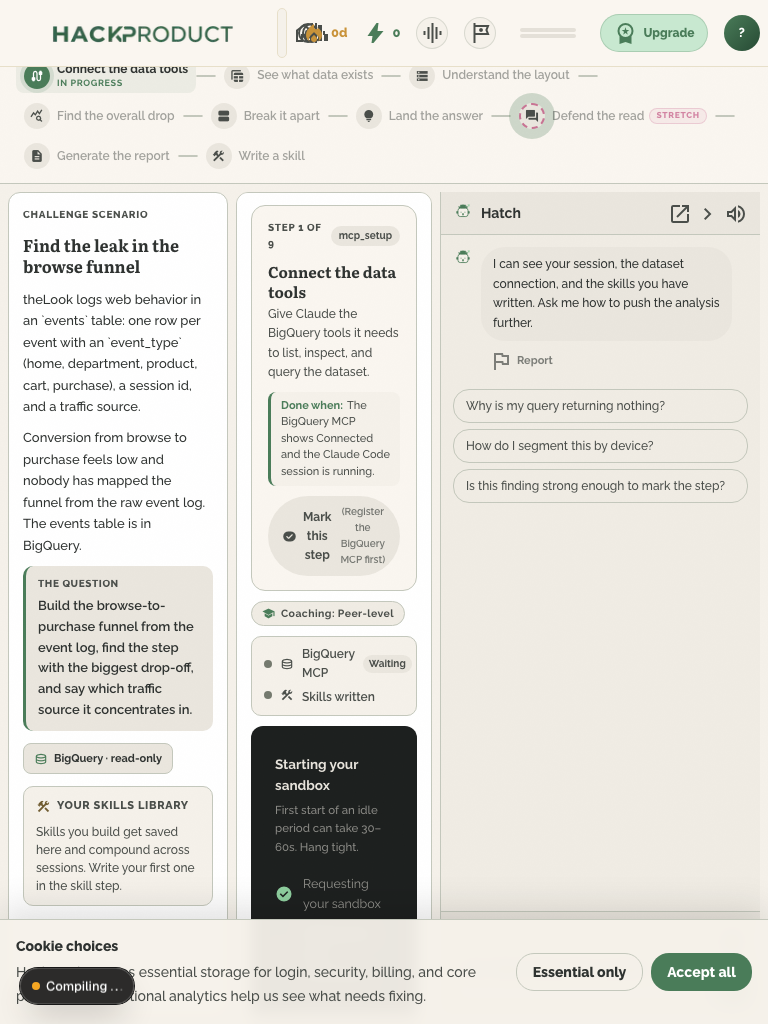
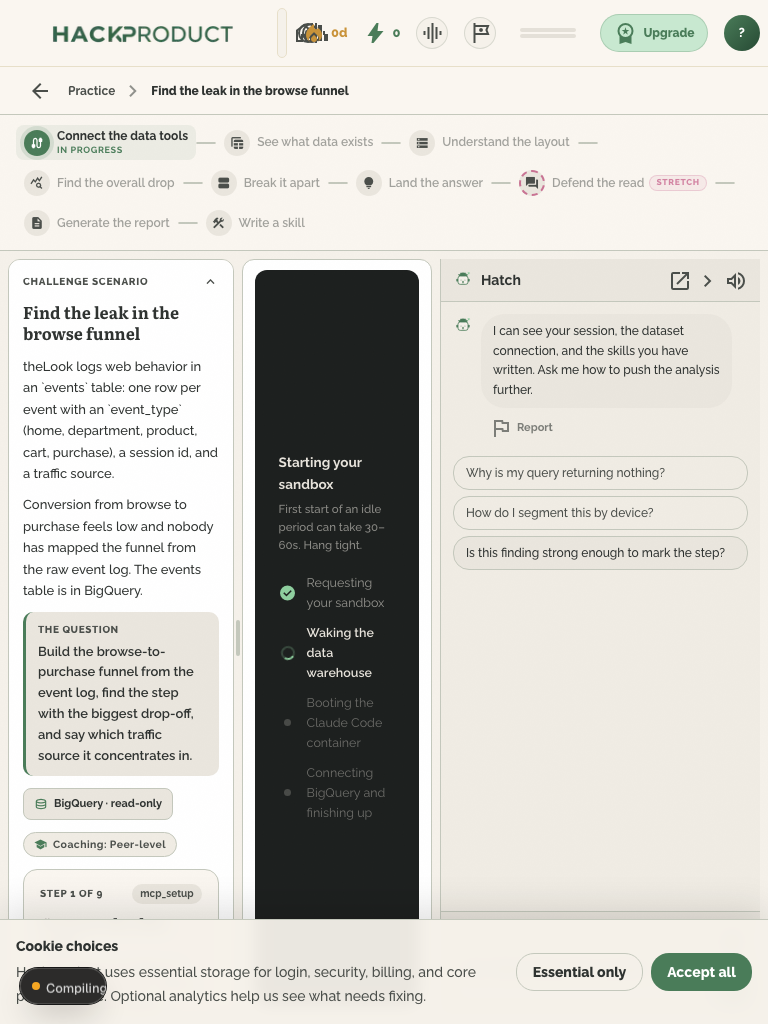
feat(cc-analytics): terminal-as-hero layout with resizable mission column
Ported from the cc-analytics-hero worktree: the left column becomes the
resizable 'Mission' pane (20-50%, drag divider, per-challenge localStorage)
owning ALL guidance in one scroll — collapsible scenario prose (auto-
collapses once the session is live), question card, dataset badge, register
chip, objective card, prompt rail (guidance density preserved), connection
strip, usage meter, skills library. The right pane is the terminal alone:
no siblings compete for its height and xterm is the only scrollbar. Mobile
stacks into a single scrolling column with a 360px terminal floor.

CC Analytics elevation, increment 3. Real-session E2E green; suite green.

diff --git a/src/components/v2/mediums/ClaudeCodeAnalyticsMedium.tsx b/src/components/v2/mediums/ClaudeCodeAnalyticsMedium.tsx
@@ -87,6 +87,54 @@ export function ClaudeCodeAnalyticsMedium({ challenge, attemptId, scenario }: Me
     injected: Array<{ id: string; kind: string; afterStepId: string | null; reason: string }>
     adjustments: Array<{ from: string; to: string; trigger: string; atStepId: string | null }>
   }>({ injected: [], adjustments: [] })
+
+  // ── Terminal-as-hero frame: resizable split (ported from cc-analytics-hero).
+  // The left "Mission" column owns all guidance and the single scroll; the
+  // right pane is the terminal only. Same clamps + storage pattern as
+  // FlowWorkspace so the lab reads like the coding workspace.
+  const containerRef = useRef<HTMLDivElement>(null)
+  const dragCleanupRef = useRef<null | (() => void)>(null)
+  const [leftWidth, setLeftWidth] = useState(30) // percent, md and up only
+  const [questionCollapsed, setQuestionCollapsed] = useState(false)
+  const questionTouchedRef = useRef(false)
+
+  useEffect(() => {
+    try {
+      const stored = localStorage.getItem(`cc-analytics-layout:${challenge.id}`)
+      if (stored) {
+        const parsed = JSON.parse(stored) as { leftWidth?: number }
+        if (typeof parsed.leftWidth === 'number') setLeftWidth(Math.max(20, Math.min(50, parsed.leftWidth)))
+      }
+    } catch { /* no storage */ }
+  }, [challenge.id])
+  useEffect(() => {
+    try {
+      localStorage.setItem(`cc-analytics-layout:${challenge.id}`, JSON.stringify({ leftWidth }))
+    } catch { /* no storage */ }
+  }, [challenge.id, leftWidth])
+
+
+  const handleLeftDividerMouseDown = useCallback((e: React.MouseEvent) => {
+    e.preventDefault()
+    const container = containerRef.current
+    if (!container) return
+    const onMouseMove = (ev: MouseEvent) => {
+      const rect = container.getBoundingClientRect()
+      const pct = ((ev.clientX - rect.left) / rect.width) * 100
+      setLeftWidth(Math.max(20, Math.min(50, pct)))
+    }
+    const onMouseUp = () => {
+      document.removeEventListener('mousemove', onMouseMove)
+      document.removeEventListener('mouseup', onMouseUp)
+      document.body.style.cursor = ''
+      dragCleanupRef.current = null
+    }
+    document.body.style.cursor = 'col-resize'
+    document.addEventListener('mousemove', onMouseMove)
+    document.addEventListener('mouseup', onMouseUp)
+    dragCleanupRef.current = onMouseUp
+  }, [])
+  useEffect(() => () => { dragCleanupRef.current?.() }, [])
   const [sessionId, setSessionId] = useState<string | null>(null)
   const [sessionError, setSessionError] = useState<string | null>(null)
   // Free quota exhausted (HTTP 402). Opens the unified PaywallModal (analytics
@@ -107,6 +155,14 @@ export function ClaudeCodeAnalyticsMedium({ challenge, attemptId, scenario }: Me
   // True once the `claude` REPL has launched (its banner/prompt appeared). Step 1
   // gates on this so we never advance the user into bash with REPL-only prompts.
   const [replRunning, setReplRunning] = useState(false)
+
+  // Auto-collapse the scenario prose once the session is live, unless the
+  // user has toggled it themselves.
+  useEffect(() => {
+    if (mcpConnected && replRunning && !questionTouchedRef.current) {
+      setQuestionCollapsed(true)
+    }
+  }, [mcpConnected, replRunning])
   const [skillsWritten, setSkillsWritten] = useState<string[]>([])
   const [reportPath, setReportPath] = useState<string | null>(null)
   // analyst_v1 per-dimension scores from the finalize grade, for the mirror chart.
@@ -838,30 +894,43 @@ export function ClaudeCodeAnalyticsMedium({ challenge, attemptId, scenario }: Me
             to this workspace row (its closed/floating modes use `absolute
             bottom-4 right-4`), and it's a flex row so the docked panel sits as
             the right column — exactly how FlowWorkspace mounts the same panel. */}
-        <div style={{ flex: 1, minHeight: 0, display: 'flex', overflow: 'hidden', position: 'relative', gap: 8, padding: 8, background: 'var(--color-surface-container-low)' }}>
+        <div
+          ref={containerRef}
+          className="flex flex-col overflow-y-auto md:flex-row md:overflow-hidden"
+          style={{ flex: 1, minHeight: 0, position: 'relative', gap: 8, padding: 8, background: 'var(--color-surface-container-low)', ['--cc-left-w' as string]: `${leftWidth}%` }}
+        >
 
           {/* LEFT — scenario + dataset. `minHeight: 0` + `height: 100%` are what
               let `overflowY: auto` actually engage inside the flex row: without
               them the column stretches to its content's intrinsic height, grows
               the row past the viewport, and the bottom (skills library) gets
               clipped with no scrollbar. */}
-          <div style={{
-            width: '28%', minWidth: 220, maxWidth: 320,
-            flexShrink: 0,
-            height: '100%', minHeight: 0,
-            border: '1px solid var(--color-outline-variant)', borderRadius: 12,
-            overflowY: 'auto', overflowX: 'hidden', padding: '14px 14px',
-            display: 'flex', flexDirection: 'column', gap: 12,
-            background: 'var(--color-surface-container-lowest)',
-          }}>
-            <div style={{
-              fontSize: 10, fontWeight: 800,
-              letterSpacing: '0.07em', textTransform: 'uppercase',
-              color: 'var(--color-on-surface-variant)',
+          <div
+            className="w-full md:w-[var(--cc-left-w)] md:h-full md:min-h-0 md:overflow-y-auto"
+            style={{
               flexShrink: 0,
+              border: '1px solid var(--color-outline-variant)', borderRadius: 12,
+              overflowX: 'hidden', padding: '14px 14px',
+              display: 'flex', flexDirection: 'column', gap: 12,
+              background: 'var(--color-surface-container-lowest)',
             }}>
+            <button
+              onClick={() => { questionTouchedRef.current = true; setQuestionCollapsed(v => !v) }}
+              style={{
+                display: 'flex', alignItems: 'center', justifyContent: 'space-between',
+                fontSize: 10, fontWeight: 800,
+                letterSpacing: '0.07em', textTransform: 'uppercase',
+                color: 'var(--color-on-surface-variant)',
+                flexShrink: 0, background: 'transparent', border: 'none',
+                cursor: 'pointer', padding: 0, fontFamily: 'inherit',
+              }}
+              aria-expanded={!questionCollapsed}
+            >
               Challenge scenario
-            </div>
+              <span className="material-symbols-outlined" style={{ fontSize: 16 }}>
+                {questionCollapsed ? 'expand_more' : 'expand_less'}
+              </span>
+            </button>
             {/* Title */}
             <div style={{
               fontFamily: 'var(--font-headline)', fontSize: 16, fontWeight: 700,
@@ -875,12 +944,12 @@ export function ClaudeCodeAnalyticsMedium({ challenge, attemptId, scenario }: Me
                 the scenario_* columns passed down as `scenario`. */}
             {scenario && (scenario.context || scenario.trigger || scenario.question) ? (
               <div style={{ display: 'flex', flexDirection: 'column', gap: 10 }}>
-                {scenario.context && (
+                {!questionCollapsed && scenario.context && (
                   <p style={{ fontSize: 13, lineHeight: 1.65, color: 'var(--color-on-surface)', margin: 0 }}>
                     {scenario.context}
                   </p>
                 )}
-                {scenario.trigger && (
+                {!questionCollapsed && scenario.trigger && (
                   <p style={{ fontSize: 13, lineHeight: 1.65, color: 'var(--color-on-surface)', margin: 0 }}>
                     {scenario.trigger}
                   </p>
@@ -926,42 +995,6 @@ export function ClaudeCodeAnalyticsMedium({ challenge, attemptId, scenario }: Me
               </span>
             </div>
 
-            {/* Skills library — browse + reload skills built across past sessions. */}
-            <SkillsLibraryPanel
-              terminalRef={terminalRef}
-              sessionSkills={skillsWritten}
-              replRunning={replRunning}
-              onLoaded={handleSkillWritten}
-            />
-          </div>
-
-          {/* RIGHT — live session. overflow:hidden, NOT auto: the terminal is
-              the only element allowed to scroll (xterm scrolls internally).
-              An auto column here created a second scrollbar around the
-              terminal and let sibling cards jitter its height. */}
-          <div style={{
-            flex: 1, minWidth: 0, minHeight: 0,
-            display: 'flex', flexDirection: 'column', gap: 10,
-            padding: '12px 14px',
-            overflow: 'hidden',
-            border: '1px solid var(--color-outline-variant)', borderRadius: 12,
-            background: 'var(--color-surface-container-lowest)',
-          }}>
-
-            {/* Objective card */}
-            {activeSubProblem && (
-              <AnalyticsObjectiveCard
-                subProblem={activeSubProblem}
-                stepIdx={activeSubProblemIdx}
-                totalSteps={subProblems.length}
-                mcpConnected={mcpConnected}
-                replRunning={replRunning}
-                skillsWritten={skillsWritten}
-                hideTeachingNote={guidance === 'open'}
-                reportWritten={!!reportPath}
-                onMark={handleMark}
-              />
-            )}
 
             {/* Coaching register — how Hatch is coaching this session (F3).
                 Product language only; the internal level never surfaces. */}
@@ -988,6 +1021,39 @@ export function ClaudeCodeAnalyticsMedium({ challenge, attemptId, scenario }: Me
               </span>
             </div>
 
+            {/* Objective card */}
+            {activeSubProblem && (
+              <AnalyticsObjectiveCard
+                subProblem={activeSubProblem}
+                stepIdx={activeSubProblemIdx}
+                totalSteps={subProblems.length}
+                mcpConnected={mcpConnected}
+                replRunning={replRunning}
+                skillsWritten={skillsWritten}
+                hideTeachingNote={guidance === 'open'}
+                reportWritten={!!reportPath}
+                onMark={handleMark}
+              />
+            )}
+
+            {/* Suggested prompt rail. Prefer the AI-generated contextual chips
+                (driven by the live terminal); fall back to the step's static
+                arc prompts whenever those are empty (loading / failed / budget). */}
+            {(() => {
+              // Prompt density follows guidance (design §3.3): scaffolded sees
+              // everything, guided two, open a single sharp direction.
+              const density = guidance === 'scaffolded' ? 3 : guidance === 'guided' ? 2 : 1
+              const allRailPrompts = aiPrompts.length ? aiPrompts : (activeSubProblem?.suggestedPrompts ?? [])
+              const railPrompts = allRailPrompts.slice(0, density)
+              return railPrompts.length ? (
+                <SuggestedPromptRail
+                  prompts={railPrompts}
+                  terminalRef={terminalRef}
+                  contextual={aiPrompts.length > 0}
+                />
+              ) : null
+            })()}
+
             {/* Connection strip */}
             <AnalyticsConnectionStrip
               mcpConnected={mcpConnected}
@@ -1004,6 +1070,42 @@ export function ClaudeCodeAnalyticsMedium({ challenge, attemptId, scenario }: Me
                 active={!showMirror}
               />
             )}
+
+            {/* Skills library — browse + reload skills built across past sessions. */}
+            <SkillsLibraryPanel
+              terminalRef={terminalRef}
+              sessionSkills={skillsWritten}
+              replRunning={replRunning}
+              onLoaded={handleSkillWritten}
+            />
+          </div>
+
+          {/* Drag divider — desktop only (mobile stacks) */}
+          <div
+            onMouseDown={handleLeftDividerMouseDown}
+            role="separator"
+            aria-orientation="vertical"
+            aria-label="Resize mission panel and terminal"
+            className="hidden md:flex"
+            style={{ width: 8, margin: '0 -8px', cursor: 'col-resize', flexShrink: 0, zIndex: 5, alignItems: 'center', justifyContent: 'center' }}
+          >
+            <div style={{ width: 4, height: 36, borderRadius: 999, background: 'var(--color-outline-variant)' }} />
+          </div>
+
+          {/* RIGHT — live session. overflow:hidden, NOT auto: the terminal is
+              the only element allowed to scroll (xterm scrolls internally).
+              An auto column here created a second scrollbar around the
+              terminal and let sibling cards jitter its height. */}
+          <div
+            className="min-h-[360px] md:min-h-0"
+            style={{
+              flex: 1, minWidth: 0,
+              display: 'flex', flexDirection: 'column',
+              padding: '10px 12px',
+              overflow: 'hidden',
+              border: '1px solid var(--color-outline-variant)', borderRadius: 12,
+              background: 'var(--color-surface-container-lowest)',
+            }}>
 
             {/* Terminal frame */}
             <div style={{ flex: 1, minHeight: 0, display: 'flex', flexDirection: 'column', position: 'relative' }}>
@@ -1087,24 +1189,6 @@ export function ClaudeCodeAnalyticsMedium({ challenge, attemptId, scenario }: Me
                 <SandboxStartupProgress phase={provisionPhase} resuming={wasReaped} />
               )}
             </div>
-
-            {/* Suggested prompt rail. Prefer the AI-generated contextual chips
-                (driven by the live terminal); fall back to the step's static
-                arc prompts whenever those are empty (loading / failed / budget). */}
-            {(() => {
-              // Prompt density follows guidance (design §3.3): scaffolded sees
-              // everything, guided two, open a single sharp direction.
-              const density = guidance === 'scaffolded' ? 3 : guidance === 'guided' ? 2 : 1
-              const allRailPrompts = aiPrompts.length ? aiPrompts : (activeSubProblem?.suggestedPrompts ?? [])
-              const railPrompts = allRailPrompts.slice(0, density)
-              return railPrompts.length ? (
-                <SuggestedPromptRail
-                  prompts={railPrompts}
-                  terminalRef={terminalRef}
-                  contextual={aiPrompts.length > 0}
-                />
-              ) : null
-            })()}
 
             {/* Proactive idle nudges now surface through the floating Hatch
                 dock (mounted as the last child of this row), not as a separate
